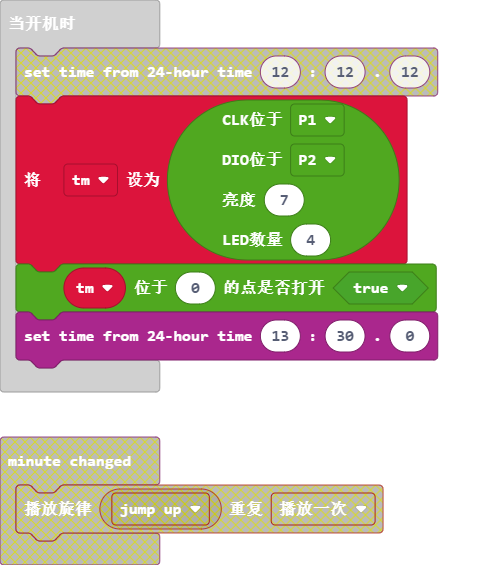
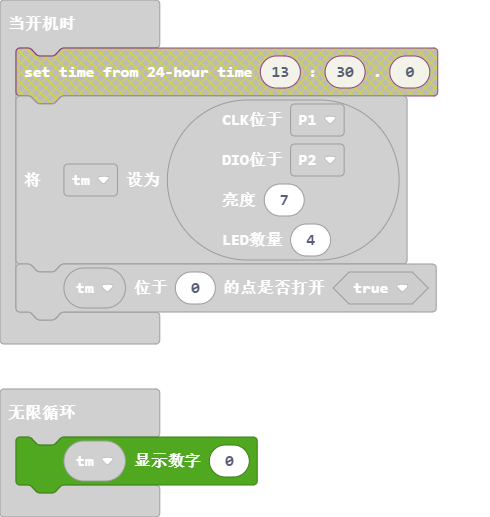
更新 main.blocks, main.ts

diff --git a/main.ts b/main.ts
@@ -1,4 +1,3 @@
-timeanddate.set24HourTime(13, 30, 0)
 let tm = TM1637.create(
 DigitalPin.P1,
 DigitalPin.P2,
@@ -7,5 +6,5 @@ DigitalPin.P2,
 )
 tm.showDP(0, true)
 basic.forever(function () {
-    tm.showNumber(parseFloat("" + convertToText(parseFloat(timeanddate.time(timeanddate.TimeFormat.HMM).substr(0, 2))) + convertToText(parseFloat(timeanddate.time(timeanddate.TimeFormat.HMM).substr(3, 2)))))
+    tm.showNumber(0)
 })
